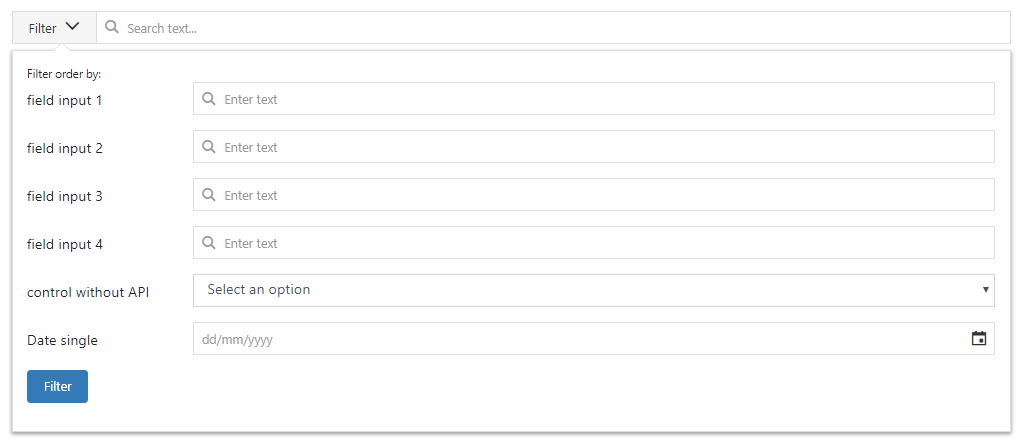
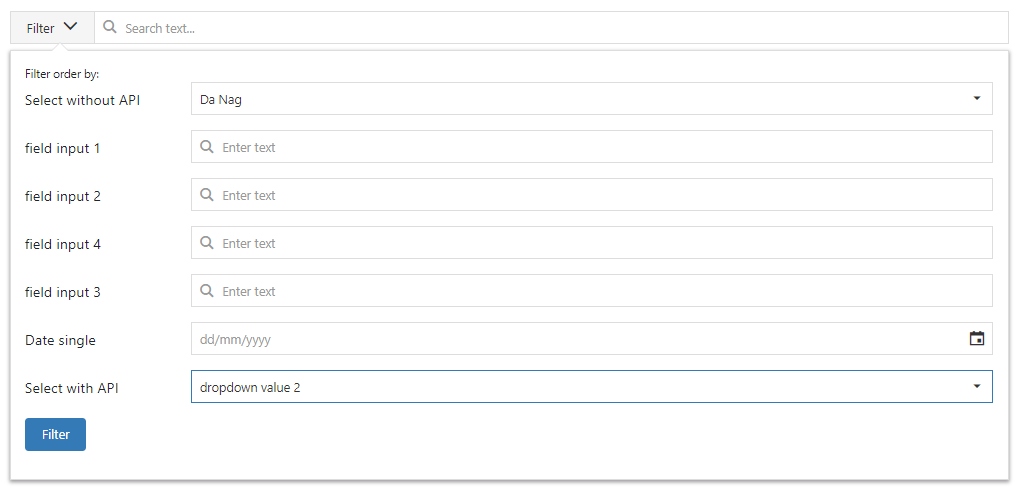
update demo, fix index page multiple device responsive

diff --git a/src/index.html b/src/index.html
@@ -1,8 +1,12 @@
-<html>
-  <head>
-    <title>Angular App</title>
-  </head>
-  <body>
-  <my-app>loading</my-app>
-  </body>
+<!DOCTYPE html>
+<html lang="en">
+    <head>
+        <meta charset="UTF-8" />
+        <meta name="viewport" content="width=device-width, initial-scale=1.0" />
+        <meta http-equiv="X-UA-Compatible" content="ie=edge" />
+        <title>Angular Filter Advanced</title>
+    </head>
+    <body>
+        <my-app>loading</my-app>
+    </body>
 </html>

diff --git a/src/app/filter-advanced/containers/filter-advanced/filter-advanced.component.scss b/src/app/filter-advanced/containers/filter-advanced/filter-advanced.component.scss
@@ -27,6 +27,8 @@
     .filter-advanced-content {
         position: absolute;
         width: 100%;
+        height: 500px;
+        overflow: auto;
         top: 43px;
         padding: 1em;
         border: 1px solid #ddd;

diff --git a/src/app/app.component.html b/src/app/app.component.html
@@ -4,7 +4,6 @@
     {{ formFilter.valid }}
     <h4>Form Value:</h4>
     {{ formFilter.value | json }}
-    <div class="mt-100"></div>
 
     <app-filter-advanced
         #formFilter

diff --git a/src/app/app.component.css b/src/app/app.component.css
@@ -5,3 +5,7 @@ p {
 .mt-100 {
     margin-top: 100px !important;
 }
+
+.mb-100 {
+    margin-bottom: 100px !important;
+}
